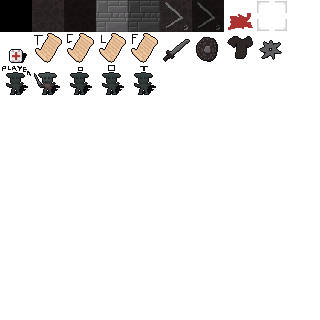
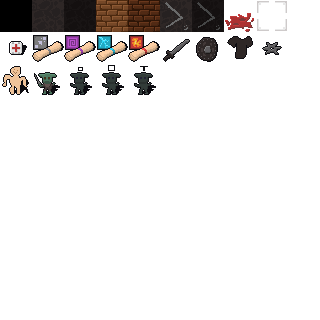
graphics updates - new scroll graphics - new blood splatter graphics - armor renders now - new (placeholder) player graphics - new wall and throwing star graphics - readded throwing animation and burst animation - allowed player to zoom in and out with + and -

Changed region(s): [[0.0, 0.0, 0.5, 0.3125], [0.6875, 0.0312, 0.8125, 0.0938], [0.8125, 0.125, 0.875, 0.1875]]

diff --git a/animations.py b/animations.py
@@ -134,19 +134,19 @@ class ProjectileAnimation(BaseAnimation):
         # print different tiles based on where the projectile is moving
         if tile_xy[0] != self.last_tile[0]:
             if tile_xy[1] == self.last_tile[1]:
-                console.print(x=tile_xy[0] + x_offset, y=tile_xy[1] + y_offset, string="-", fg=self.color)
+                console.print(x=tile_xy[0] + x_offset, y=tile_xy[1] + y_offset, string=chr(0xE109), fg=self.color)
             elif tile_xy[1] > self.last_tile[1]:
                 if tile_xy[0] > self.last_tile[0]:
-                    console.print(x=tile_xy[0] + x_offset, y=tile_xy[1] + y_offset, string="\\", fg=self.color)
+                    console.print(x=tile_xy[0] + x_offset, y=tile_xy[1] + y_offset, string=chr(0xE10C), fg=self.color)
                 else:
-                    console.print(x=tile_xy[0] + x_offset, y=tile_xy[1] + y_offset, string="/", fg=self.color)
+                    console.print(x=tile_xy[0] + x_offset, y=tile_xy[1] + y_offset, string=chr(0xE10B), fg=self.color)
             else:
                 if tile_xy[0] > self.last_tile[0]:
-                    console.print(x=tile_xy[0] + x_offset, y=tile_xy[1] + y_offset, string="/", fg=self.color)
+                    console.print(x=tile_xy[0] + x_offset, y=tile_xy[1] + y_offset, string=chr(0xE10B), fg=self.color)
                 else:
-                    console.print(x=tile_xy[0] + x_offset, y=tile_xy[1] + y_offset, string="\\", fg=self.color)
+                    console.print(x=tile_xy[0] + x_offset, y=tile_xy[1] + y_offset, string=chr(0xE10C), fg=self.color)
         elif tile_xy[1] != self.last_tile[1]:
-            console.print(x=tile_xy[0] + x_offset, y=tile_xy[1] + y_offset, string="|", fg=self.color)
+            console.print(x=tile_xy[0] + x_offset, y=tile_xy[1] + y_offset, string=chr(0xE10A), fg=self.color)
 
         self.last_tile = tile_xy
         if len(self.path) == 0:
@@ -169,10 +169,10 @@ class BurstAnimation(BaseAnimation):
         x_offset = engine.viewport.x_offset
         y_offset = engine.viewport.y_offset
 
-        console.print(x=self.x + x_offset - 1, y=self.y + y_offset - 1, string="\\|/", fg=self.color)
-        console.print(x=self.x + x_offset - 1, y=self.y + y_offset, string="-", fg=self.color)
-        console.print(x=self.x + x_offset + 1, y=self.y + y_offset, string="-", fg=self.color)
-        console.print(x=self.x + x_offset - 1, y=self.y + y_offset + 1, string="/|\\", fg=self.color)
+        console.print(x=self.x + x_offset - 1, y=self.y + y_offset - 1, string=f"{chr(0xE105)}{chr(0xE101)}{chr(0xE106)}", fg=self.color)
+        console.print(x=self.x + x_offset - 1, y=self.y + y_offset, string=0xE104, fg=self.color)
+        console.print(x=self.x + x_offset + 1, y=self.y + y_offset, string=0xE103, fg=self.color)
+        console.print(x=self.x + x_offset - 1, y=self.y + y_offset + 1, string=f"{chr(0xE107)}{chr(0xE102)}{chr(0xE108)}", fg=self.color)
 
         self.frames -= 1
 

diff --git a/main.py b/main.py
@@ -25,20 +25,25 @@ def render_context(
     handler: input_handlers.BaseEventHandler
 ) -> None:
     """Render the given context using the provided console render and input handler."""
+
+    try:
+        mag = handler.engine.magnification
+    except AttributeError:
+        mag = 2
     
     # console to render base map objects (background console)
-    b_console = context.new_console(magnification=2, order="F")
+    b_console = context.new_console(magnification=mag, order="F")
 
     # console to render items
-    i_console = context.new_console(magnification=2, order="F")
+    i_console = context.new_console(magnification=mag, order="F")
     i_console.rgba[:] = 0x20, (0, 0, 0, 0), (0, 0, 0, 0)
 
     # console to render actors (monster console)
-    m_console = context.new_console(magnification=2, order="F")
+    m_console = context.new_console(magnification=mag, order="F")
     m_console.rgba[:] = 0x20, (0, 0, 0, 0), (0, 0, 0, 0)
 
     # console to render animations
-    a_console = context.new_console(magnification=2, order="F")
+    a_console = context.new_console(magnification=mag, order="F")
     a_console.rgba[:] = 0x20, (0, 0, 0, 0), (0, 0, 0, 0)
 
     # console to render UI elements

diff --git a/entity_factories.py b/entity_factories.py
@@ -128,7 +128,7 @@ ogre = Actor(
 
 # CONSUMABLES
 confusion_scroll = Item(
-    char="~",
+    char=chr(0xE00B),
     color=color.purple,
     name="Confusion Scroll",
     consumable=consumable.ConfusionConsumable(number_of_turns=5, animation=True, color=color.purple),
@@ -136,7 +136,7 @@ confusion_scroll = Item(
     stackable=True,
 )
 fireball_scroll = Item(
-    char="~",
+    char=chr(0xE00D),
     color=color.red,
     name="Fireball Scroll",
     consumable=consumable.RadiusDamageConsumable(num_dice=6, die_size=6, radius=3),
@@ -152,7 +152,7 @@ health_kit = Item(
     stackable=True,
 )
 lightning_scroll = Item(
-    char="~",
+    char=chr(0xE00C),
     color=color.yellow,
     name="Lightning Scroll",
     consumable=consumable.SingleTargetDamageConsumable(num_dice=4, die_size=12, maximum_range=5, animation=True, color=color.light_blue),
@@ -160,7 +160,7 @@ lightning_scroll = Item(
     stackable=True,
 )
 teleport_scroll = Item(
-    char="~",
+    char=chr(0xE00A),
     color=color.grey,
     name="Teleportation Scroll",
     consumable=consumable.TeleportConsumable(maximum_range=50),

diff --git a/tilemaps.py b/tilemaps.py
@@ -10,13 +10,13 @@ main_tilemap = [
     0xE007, # cursor
     ord("?"), # empty
     ord("+"), # health kit
-    ord("~"), # tele scroll
-    ord("~"), # confusion scroll
-    ord("~"), # lightning scroll
-    ord("~"), # fire scroll
+    0xE00A, # tele scroll
+    0xE00B, # confusion scroll
+    0xE00C, # lightning scroll
+    0xE00D, # fire scroll
     ord("/"), # generic weapon
     ord(")"), # generic shield
-    ord("]"), # generic armor
+    ord("["), # generic armor
     ord("x"), # throwing star
     ord("?"), # empty
     ord("@"), # player

diff --git a/engine.py b/engine.py
@@ -27,6 +27,13 @@ class Engine:
         self.message_log = MessageLog()
         self.mouse_location = (0, 0)
         self.player = player
+        self.magnification = 2
+
+    def set_magnification(self, zoom: str) -> None:
+        if zoom == "in" and self.magnification < 2:
+            self.magnification *= 2
+        elif zoom == "out" and self.magnification > 0.25:
+            self.magnification /= 2
 
     def handle_enemy_turns(self) -> list[BaseAnimation]:
         animations = []

diff --git a/input_handlers.py b/input_handlers.py
@@ -810,6 +810,11 @@ class MainGameEventHandler(EventHandler):
         elif key == tcod.event.K_SLASH:
             return LookHandler(self.engine)
 
+        elif key == tcod.event.K_PLUS or key == tcod.event.K_KP_PLUS:
+            self.engine.set_magnification("in")
+        elif key == tcod.event.K_MINUS or key == tcod.event.K_KP_MINUS:
+            self.engine.set_magnification("out")
+
         # No valid key was pressed.
         return action
 

diff --git a/viewport.py b/viewport.py
@@ -91,7 +91,7 @@ class Viewport:
             console_y_min += self.y_offset
             console_y_max -= self.y_offset
 
-            if console_y_max != self.game_map.height + 5 + self.y_offset:
+            if console_y_max != self.game_map.height + self.y_offset:
                 console_y_max -= 1
 
         b_console.rgba[console_x_min : console_x_max, console_y_min : console_y_max] = np.select(
